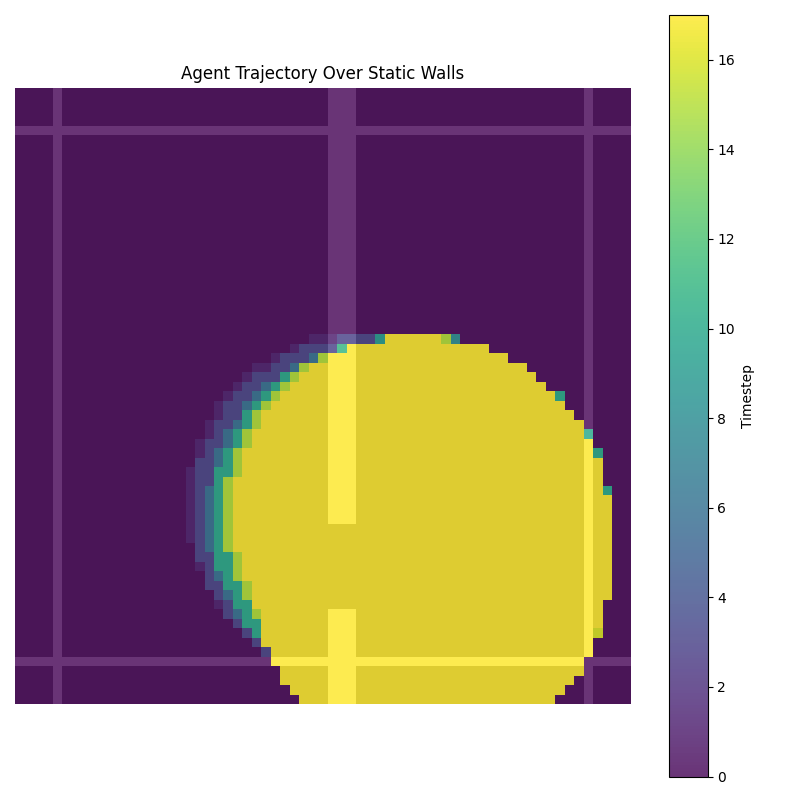
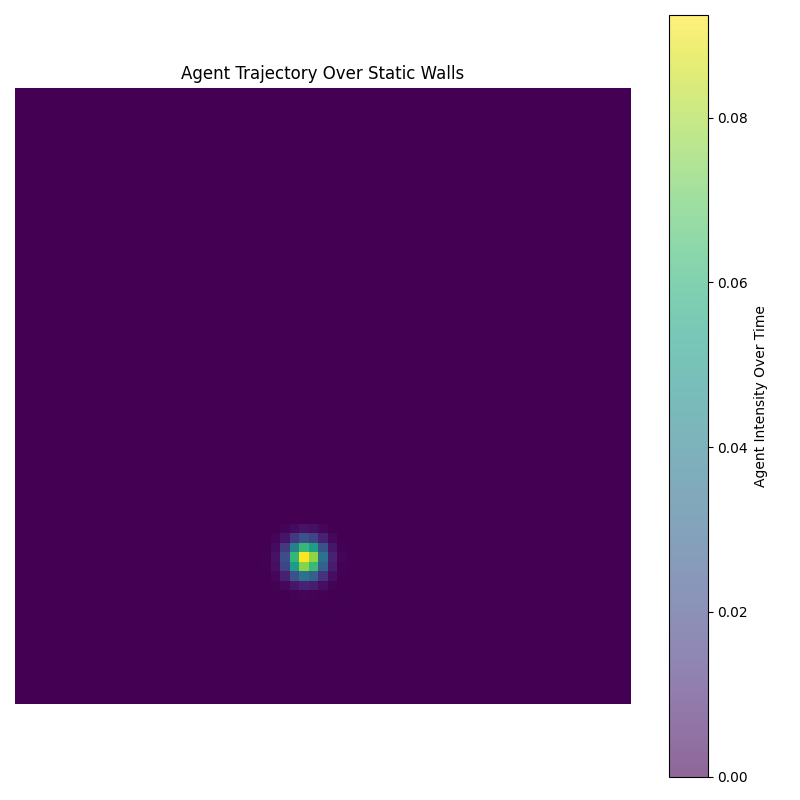
try again

Changed region(s): [[0.0, 0.0938, 0.7812, 0.9062], [0.8125, 0.0, 0.9688, 0.9688], [0.9062, 0.9688, 0.9375, 1.0]]

diff --git a/output.py b/output.py
@@ -75,27 +75,20 @@ def plot_trajectory(position_channel, walls_channel):
 
 def plot_full_trajectory(position_channel, walls_channel):
     steps, height, width = position_channel.shape
-
     walls = walls_channel[0]
-
     fig, ax = plt.subplots(figsize=(8, 8))
-
-    ax.imshow(walls, cmap="gray", alpha=0.6, label="Walls")  # Walls as background
-
-    cmap = plt.cm.get_cmap("viridis", steps)  # Colormap with one color per step
-
+    ax.imshow(walls, cmap="gray", alpha=0.6, label="Walls") 
     for t in range(steps):
-        positions = np.argwhere(position_channel[t] > 0)  # Get positions of the agent
-        for y, x in positions:
-            ax.scatter(x, y, color=cmap(t), label=f"Timestep {t}" if t == 0 else "", s=20)
-
+        im_pos = ax.imshow(
+            position_channel[t],
+            cmap="viridis",
+            alpha=0.6,
+            label=f"Timestep {t}",
+        )
     ax.set_title("Agent Trajectory Over Static Walls")
+    cbar = fig.colorbar(im_pos, ax=ax)
+    cbar.set_label("Agent Intensity Over Time")
     ax.axis("off")
-    sm = plt.cm.ScalarMappable(cmap=cmap, norm=plt.Normalize(vmin=0, vmax=steps - 1))
-    sm.set_array([])
-    cbar = fig.colorbar(sm, ax=ax)
-    cbar.set_label("Timestep")
     fig.tight_layout()
     fig.savefig("traject.png")
     plt.close(fig)
-
